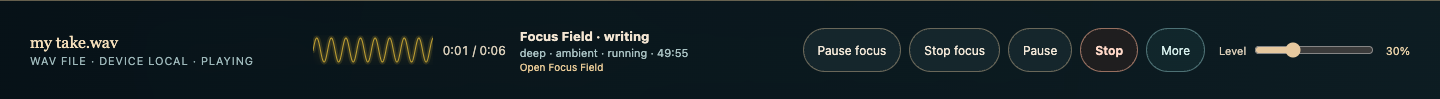
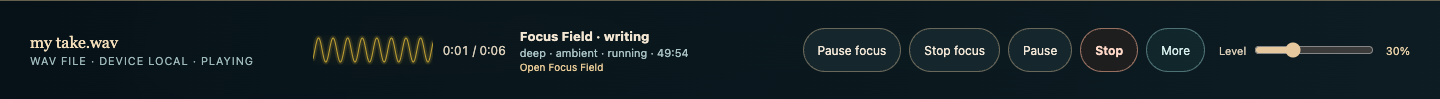
fix(listen): the bar's Focus links open Focus Field from anywhere
The listen room kept its view in state and never read the address, so
/listen#focus-field (Open Focus Field) and /listen#focus-sound (Choose a
sound) always landed on Now; on the test page Choose a sound left for an
empty page (founder 2026-11-19, #1979). A bar link now scrolls in place when
its section is on screen, otherwise announces the section so an open room
switches to Focus, and still carries the address, which the room reads when
it opens. Navigation stays inside the app, so the one player keeps playing.
Witnessed on the real ListenRoom built outside Next; against the previous
code every Focus case landed on Now.

Changed region(s): [[0.2188, 0.3636, 0.3125, 0.6364]]

diff --git a/app/listen/ListenRoom.tsx b/app/listen/ListenRoom.tsx
@@ -19,6 +19,7 @@ import ToneLabDesk from './ToneLabDesk';
 import TransformDesk from './TransformDesk';
 import type { StudioView } from './SoundStudioNow';
 import FocusFieldDesk from '@/components/listening/FocusFieldDesk';
+import { STUDIO_SECTION_EVENT, viewForSection } from '@/lib/listening/studioSections';
 import type { MemberCollection, TrackReference } from '@/lib/listening/portableCollections';
 import styles from './listen.module.css';
 import './listenGlobal.css';
@@ -102,6 +103,24 @@ export default function ListenRoom() {
     setView(next);
     if (next === 'fields') { setFieldWork(workId); setFieldKey(k => k + 1); }
     if (typeof window !== 'undefined') window.scrollTo({ top: 0 });
+  }, []);
+  // Opens the view that holds a section named by the address (/listen#focus-sound) or by the player bar,
+  // then brings the section into view. Before this, those addresses always landed on Now (#1979, 2026-11-19).
+  useEffect(() => {
+    const open = (section: string | null | undefined) => {
+      const next = viewForSection(section);
+      if (!next) return;
+      setView(next);
+      const id = String(section).replace(/^#/, '');
+      window.requestAnimationFrame(() => window.requestAnimationFrame(() =>
+        document.getElementById(id)?.scrollIntoView({ behavior: 'smooth', block: 'start' })));
+    };
+    open(window.location.hash);
+    const onSection = (event: Event) => open((event as CustomEvent<string>).detail);
+    const onHash = () => open(window.location.hash);
+    window.addEventListener(STUDIO_SECTION_EVENT, onSection);
+    window.addEventListener('hashchange', onHash);
+    return () => { window.removeEventListener(STUDIO_SECTION_EVENT, onSection); window.removeEventListener('hashchange', onHash); };
   }, []);
   // Lets the shared player sit above the phone tab bar while this room is open.
   useEffect(() => {

diff --git a/components/listening/PersistentListeningDock.tsx b/components/listening/PersistentListeningDock.tsx
@@ -7,6 +7,7 @@ import { formatExperienceTime, soundProgress } from '@/lib/listening/soundStudio
 import { COMPANION_MIXING_AVAILABLE } from '@/lib/listening/platformAudioPolicy';
 import type { ListeningSnapshot } from './PersistentListeningProvider';
 import styles from './persistentListeningDock.module.css';
+import { openStudioSection } from '@/lib/listening/studioSections';
 
 type Props = {
   snapshot: ListeningSnapshot;
@@ -287,13 +288,14 @@ export default function PersistentListeningDock({
         <div className={styles.focus} data-focus-field-dock="true">
           <strong>Focus Field · {focusSession.plan.taskLabel || focusSession.plan.task}</strong>
           <div>{focusSession.plan.focusNeed} · {focusSession.plan.musicalWorld} · {focusSession.status} · {focusRemainingLabel}</div>
-          <Link href="/listen#focus-field">Open Focus Field</Link>
+          <Link href="/listen#focus-field" onClick={event => openStudioSection('focus-field', event)}>Open Focus Field</Link>
         </div>
       )}
 
       <div className={styles.controls}>
         {focusDisplayed && !focusSoundLabel && snapshot.kind === 'none' && (
-          <Link className={styles.control} href="/listen#focus-sound" data-focus-dock-choose-sound="true">Choose a sound</Link>
+          <Link className={styles.control} href="/listen#focus-sound" data-focus-dock-choose-sound="true"
+            onClick={event => openStudioSection('focus-sound', event)}>Choose a sound</Link>
         )}
         {focusDisplayed && focusSoundLabel && snapshot.kind === 'none' && onPlayFocusSound && (
           <button type="button" className={styles.control} data-focus-dock-play-sound="true"

diff --git a/lib/listening/studioSections.ts b/lib/listening/studioSections.ts
@@ -1,0 +1,32 @@
+/**
+ * Sections of Sound Studio that the player bar can open from anywhere (#1979, 2026-11-19).
+ *
+ * The listen room keeps its view in state, so an address such as /listen#focus-sound used to land on Now.
+ * The bar's links now (1) scroll in place when the section is already on screen, (2) otherwise announce the
+ * section with STUDIO_SECTION_EVENT so an open listen room switches view, and (3) still carry the address,
+ * which a listen room reads when it first opens. Navigation stays inside the app, so the one player keeps
+ * playing.
+ */
+import type { StudioView } from '@/app/listen/SoundStudioNow';
+
+export const STUDIO_SECTION_EVENT = 'soullab:studio-section';
+export type StudioSection = 'focus-field' | 'focus-sound';
+
+/** The view that holds a section, or null for an address that is not a known section. */
+export function viewForSection(hashOrId: string | null | undefined): StudioView | null {
+  const id = (hashOrId ?? '').replace(/^#/, '');
+  return id === 'focus-field' || id === 'focus-sound' ? 'focus' : null;
+}
+
+/** Click handler for a bar link to a section. Returns true when it handled the move in place. */
+export function openStudioSection(section: StudioSection, event: { preventDefault: () => void }): boolean {
+  if (typeof document === 'undefined') return false;
+  const here = document.getElementById(section);
+  if (here) {
+    event.preventDefault();
+    here.scrollIntoView({ behavior: 'smooth', block: 'start' });
+    return true;
+  }
+  window.dispatchEvent(new CustomEvent(STUDIO_SECTION_EVENT, { detail: section }));
+  return false;
+}

diff --git a/docs/design/contracts/sound-studio-field.md b/docs/design/contracts/sound-studio-field.md
@@ -221,3 +221,15 @@ A long-form Dream Field may be represented by more than one exact media object w
   - The edge log shows the stream copy feeds only an analyser, and no analyser feeds anything.
   - Screenshots: `docs/design/contracts/screenshots/sound-studio-player-bar-generated-desktop.png`, `-recording-desktop.png`, `-mobile.png`.
   - Not witnessed: Safari, a phone, review media, and an authenticated /listen walk.
+
+## Opening Focus Field from anywhere (founder 2026-11-19, #1979: "selecting Choose a Sound goes to a dark page")
+- **The problem.** The listen room kept its view in state and never read the address, so `/listen#focus-field` (the bar's existing Open Focus Field) and `/listen#focus-sound` (its new Choose a sound) always landed on Now. On the test page, Choose a sound left for an empty page.
+- **The fix** (`lib/listening/studioSections.ts`). A bar link:
+  - scrolls in place when its section is already on screen;
+  - otherwise announces the section, so an open listen room switches to Focus;
+  - still carries the address, which a listen room reads when it first opens.
+  Navigation stays inside the app, so the one player keeps playing.
+- **Verification.** 2026-11-19:
+  - `tests/listening/listen_room_sections_browser_witness.cjs`, run on the real ListenRoom built outside Next: Now by default; both addresses and the bar's event open Focus with Sound for this session on screen. Against the previous code every Focus case landed on Now.
+  - The player bar witness shows Choose a sound stays on the page and brings the section into view.
+  - `tests/listening/studio_sections.test.mjs` passes 2/2.
